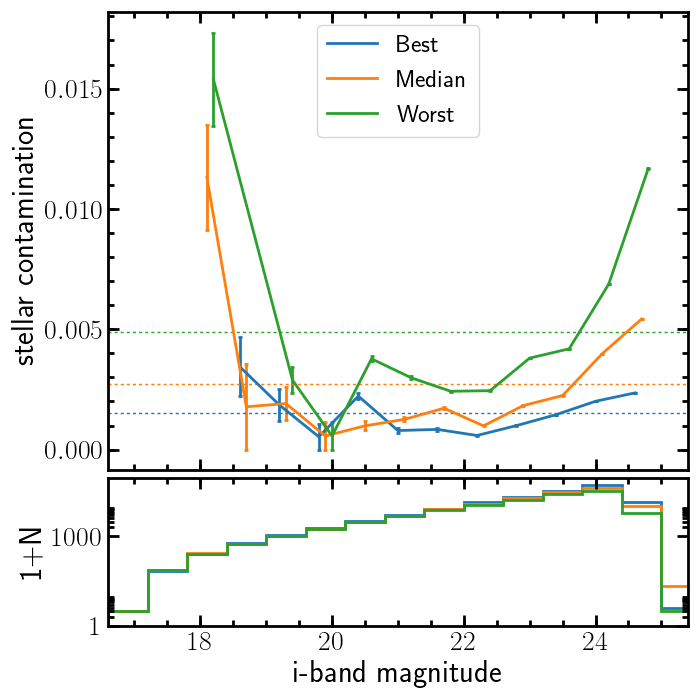
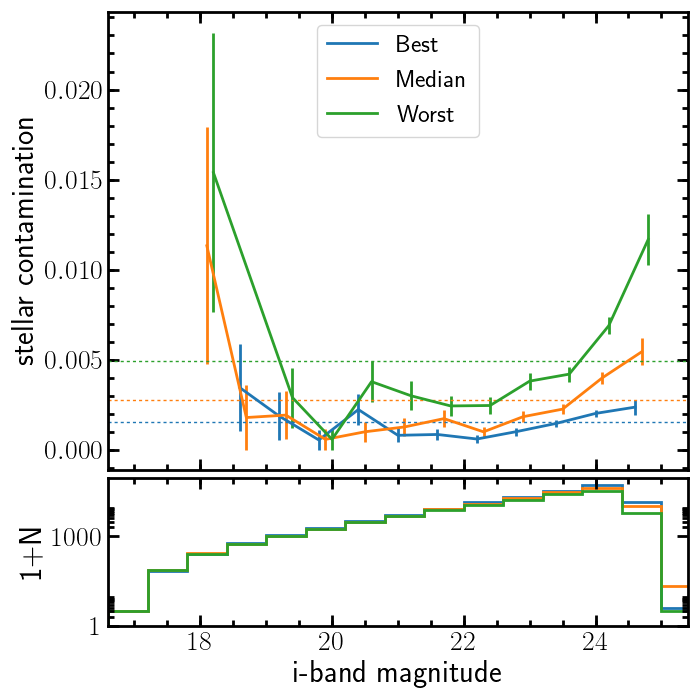
correct formula for poisson errorbars

diff --git a/purity.py b/purity.py
@@ -232,11 +232,11 @@ def plot(ax, key, data, stars, galaxies, mag, magbins, color='C0',
     else:
         label = key.capitalize()
     # Poisson errorbars
-    err = 1 / nstars**0.5 / ntot
+    err = nstars/ntot * (1/nstars + 1/ntot)**0.5
     if show_errors:
         ax.errorbar(dx+mag[nstars > 0], (nstars/ntot)[nstars > 0],
                     yerr=err[nstars > 0], fmt='-', color=color, mew=2,
-                    capsize=1.5)
+                    capsize=0)
         ax.plot([], [], '-', color=color, label=label)
     else:
         ax.plot(mag[nstars > 0], (nstars/ntot)[nstars > 0],
